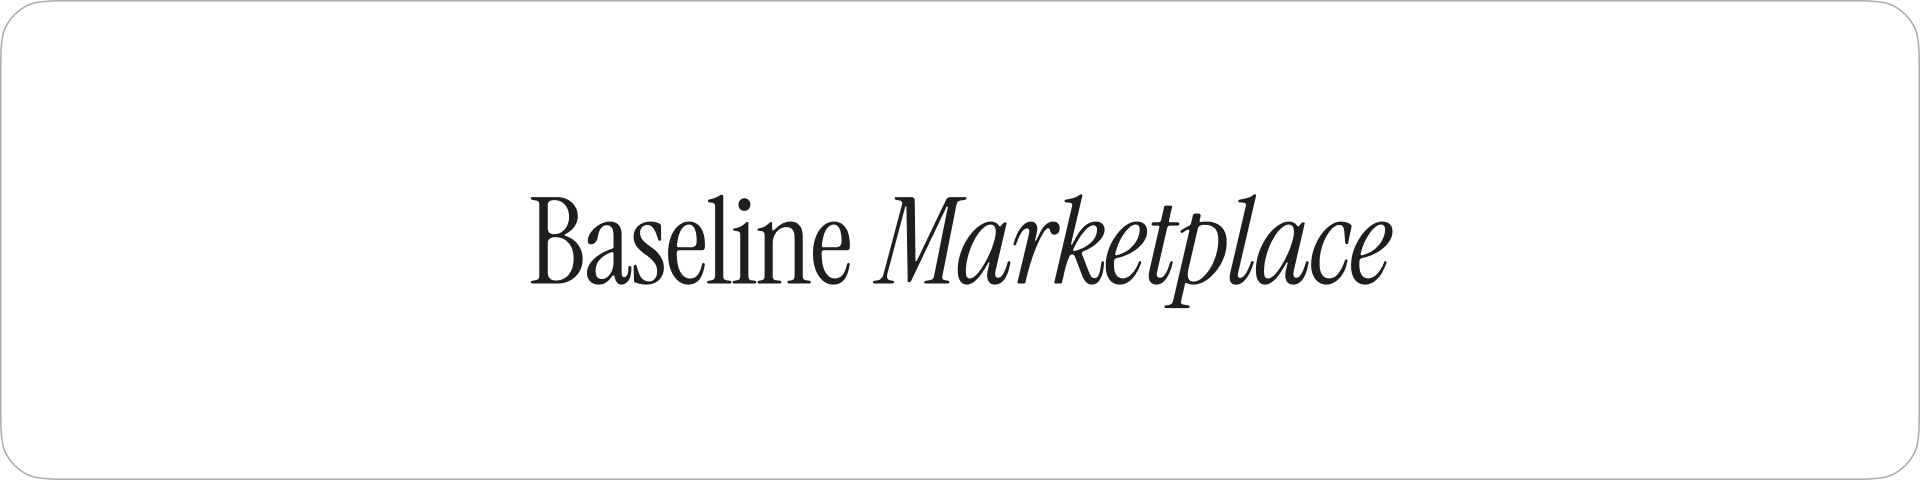
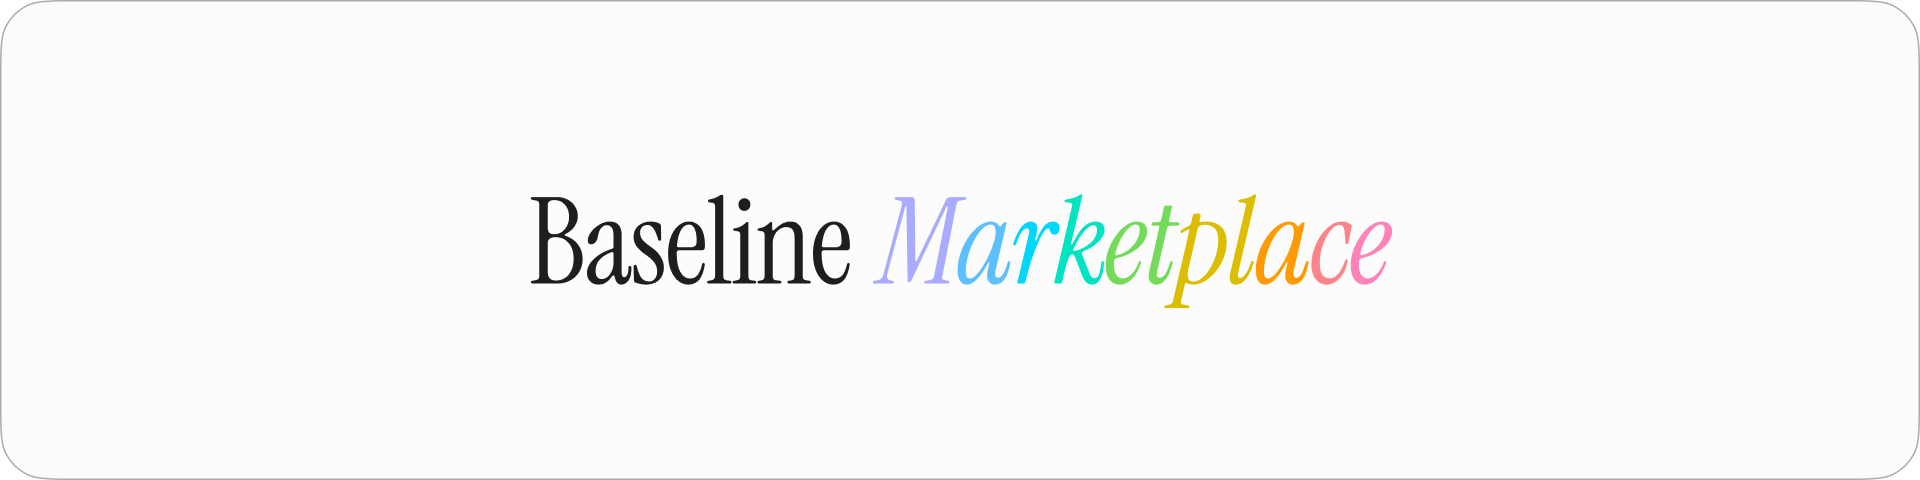
Update Readme

Changed region(s): [[0.4375, 0.4062, 0.75, 0.6562]]

diff --git a/README.md b/README.md
@@ -10,16 +10,19 @@ Baseline sets a new standard for your Obsidian vault experience — sleek, famil
 
 And don’t forget to [support the amazing creators](#credits) whose work helped shape Baseline.
 
-## Coming from other themes?
+## Quick Start
 
-Baseline is designed to be a drop-in replacement for your favorite themes. To make your transition seamless, use [Style Settings Migration Tool](https://aaaaalexis.github.io/obsidian-baseline/) to import your settings from following supported themes:
+### Migrate from other themes
 
-- [Minimal](https://github.com/kepano/obsidian-minimal/) by kepano
-- [AnuPpuccin](https://github.com/AnubisNekhet/AnuPpuccin/) by AnubisNekhet
-- [Things 2](https://github.com/colineckert/obsidian-things/) by colineckert
-- [Border](https://github.com/Akifyss/obsidian-border/) by Akifyss
-- [Sanctum](https://github.com/jdanielmourao/obsidian-sanctum/) by jdanielmourao
-- ...with more to come.
+Seamlessly migrate your settings from Minimal, AnuPpuccin, Things 2, Border, Sanctum.
+
+Get started with [Style Settings Migration Tool ↗](https://aaaaalexis.github.io/obsidian-baseline/migration)
+
+### Start with style presets
+
+Discover and share Style Settings presets created by the community. Marketplace is your new home for finding the perfect look for your workspace.
+
+Check out [Baseline Marketplace ↗](<(https://aaaaalexis.github.io/obsidian-baseline/marketplace)>)
 
 ## Overview
 
@@ -57,7 +60,7 @@ Baseline delivers a clean, modern, and polished foundation right out of the box,
 
 ### A love letter to the community
 
-Baseline aspires to stand among the community’s leading themes, alongside Minimal, AnuPpuccin, ITS, and others. Shaped by the community, Baseline gives back through a rich collection of innovations: polished interface, compact elements, hover sidebars, with more to come. With a fully reimagined Obsidian interface, Baseline aims to be more than just a theme, but a fresh starting point, a new baseline for the community going forward.
+Shaped by the community, Baseline gives back through a rich collection of innovations: polished interface, compact elements, hover sidebars, with more to come. Baseline aims to be more than just a theme, but a fresh starting point, a new baseline for the community going forward.
 
 ## Credits
 
